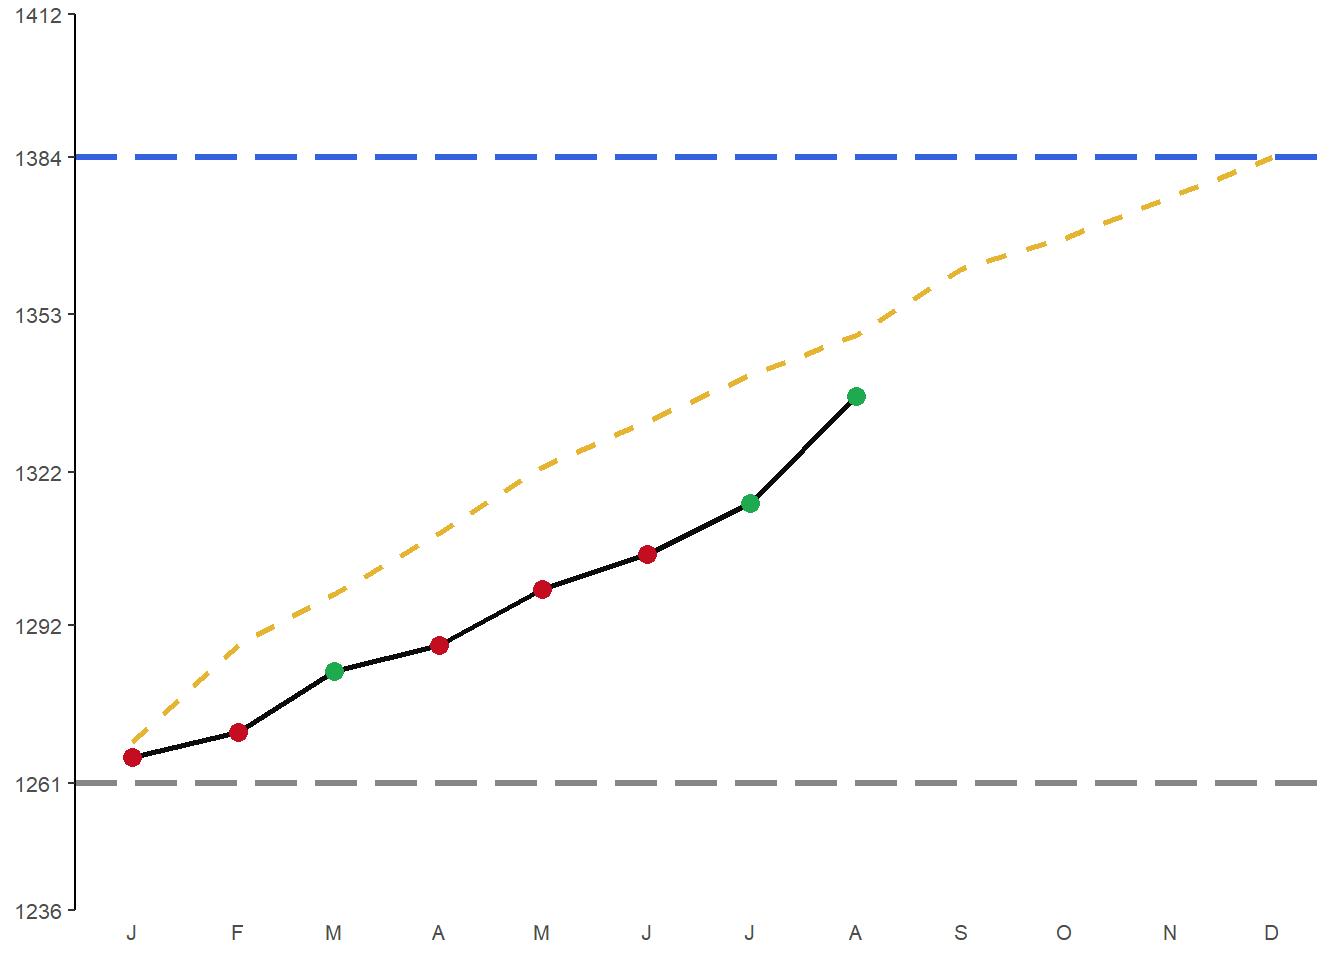
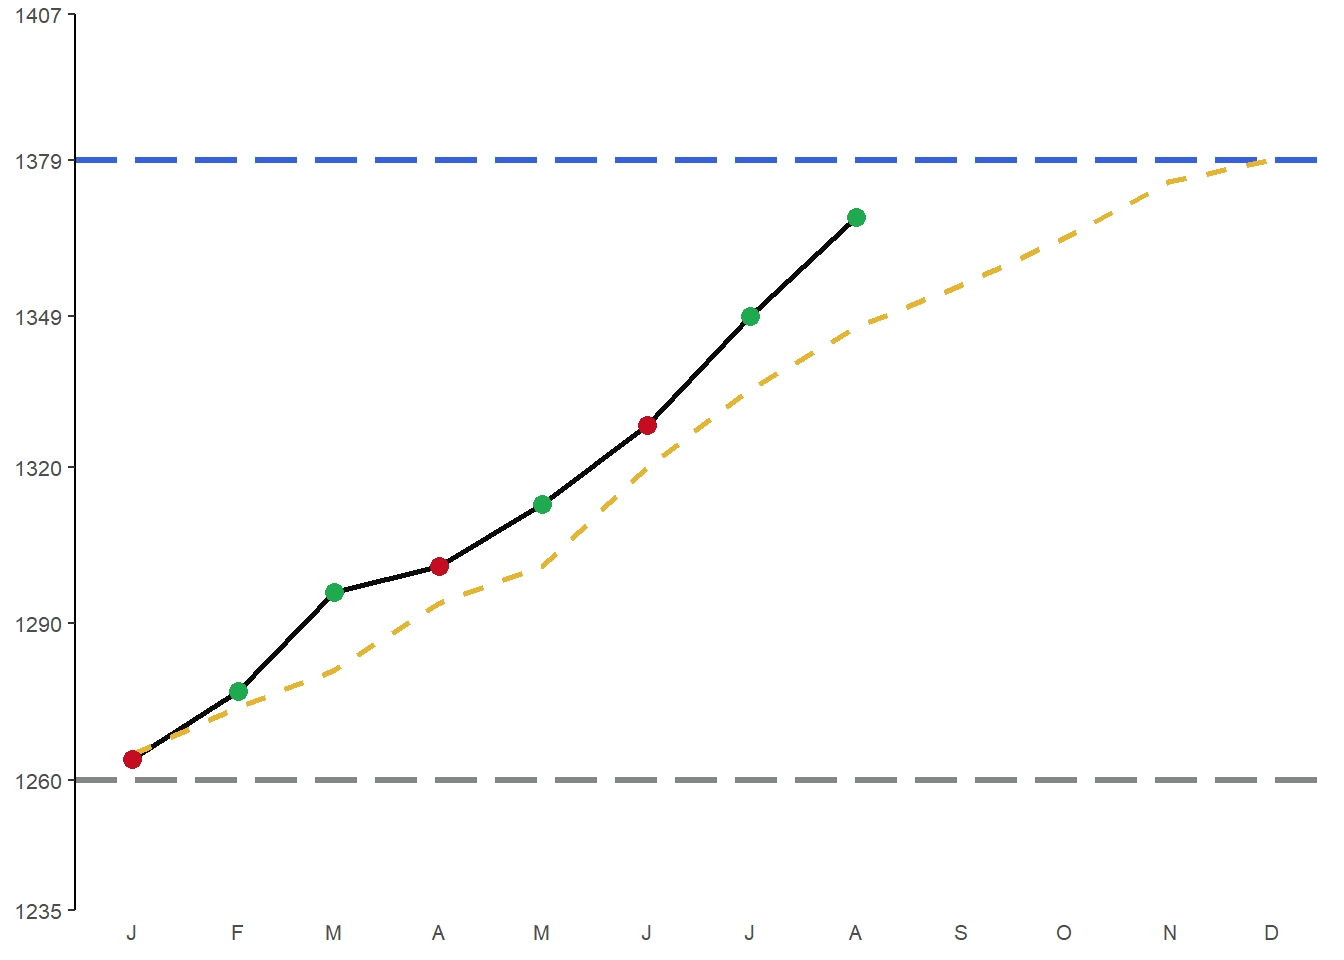
library thing update

diff --git a/posts/the-glidepath-chart/index.html b/posts/the-glidepath-chart/index.html
@@ -136,9 +136,9 @@ glimpse(dat)</code></pre>
 <pre><code>## Observations: 12
 ## Variables: 4
 ## $ month          &lt;date&gt; 2018-01-01, 2018-02-01, 2018-03-01, 2018-04-01...
-## $ sales_baseline &lt;int&gt; 109, 100, 108, 107, 106, 102, 107, 104, 100, 10...
-## $ sales_target   &lt;int&gt; 117, 119, 118, 119, 119, 111, 116, 112, 113, 11...
-## $ sales_actual   &lt;int&gt; 114, 105, 120, 112, 117, 109, 117, 125, NA, NA,...</code></pre>
+## $ sales_baseline &lt;int&gt; 109, 104, 104, 107, 110, 101, 100, 104, 107, 10...
+## $ sales_target   &lt;int&gt; 114, 113, 111, 120, 117, 120, 115, 116, 115, 11...
+## $ sales_actual   &lt;int&gt; 113, 117, 123, 112, 122, 116, 121, 123, NA, NA,...</code></pre>
 <pre class="r"><code>total_baseline&lt;-sum(sales_baseline)
 total_target&lt;-sum(sales_target)</code></pre>
 <p>Once you have a data frame similar to <code>dat</code> above, the next code chunk shows the mathematical calculations to build the target glidepath. The calculation structure is not intuitive (at least, it wasn’t to me as it took awhile to get it right) when you look at the formulas but it makes more sense once is visualized. The goal is to express the targets and current period performance in a way that shows it as a march from the baseline to the target rather than the nominal level of the metric being measured. A basic plot is shown after the calculations so that you can see the general idea behind the chart. We will make this prettier in the final step.</p>
